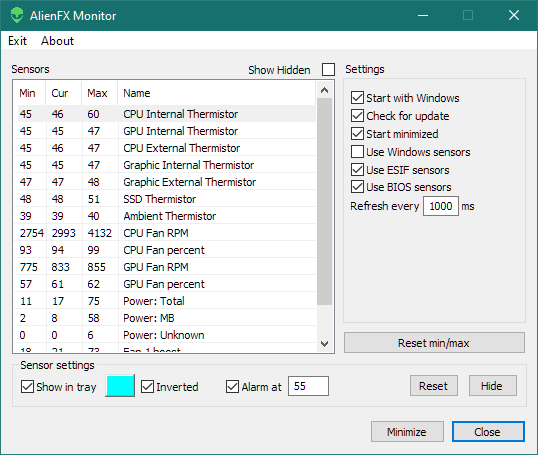
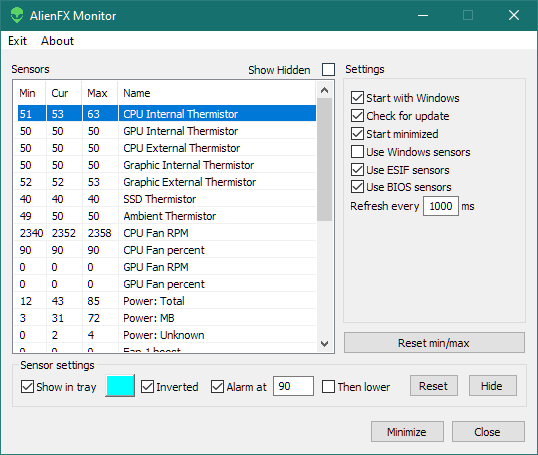
Mon hi/low alarm + overboost bugfixes + release preparation

diff --git a/alienfan-tools/alienfan-cli/alienfan-cli.cpp b/alienfan-tools/alienfan-cli/alienfan-cli.cpp
@@ -69,13 +69,12 @@ void UpdateBoost() {
 }
 
 void CheckFanOverboost(byte num) {
-    int cSteps, boost = 100, cBoost = 100,
-        rpm, oldBoost = acpi->GetFanBoost(num, true);
+    int cSteps = 8, boost = 100, cBoost = 100, rpm, oldBoost = acpi->GetFanBoost(num, true);
     printf("Checking Fan#%d:\n", num);
     bestBoostPoint = { (byte)num, 100, 0 };
     rpm = SetFanSteady(boost);
     printf("    \n");
-    for (int steps = 8; steps; steps = steps >> 1) {
+    for (int steps = cSteps; steps; steps = steps >> 1) {
         // Check for uptrend
         while ((boost+=steps) != cBoost)
         {
@@ -94,16 +93,16 @@ void CheckFanOverboost(byte num) {
         cBoost = boost + steps;
     }
     printf("High check done, best %d @ %d RPM, starting low check:\n", bestBoostPoint.maxBoost, bestBoostPoint.maxRPM);
-    boost = bestBoostPoint.maxBoost;
     for (int steps = cSteps; steps; steps = steps >> 1) {
         // Check for downtrend
         boost -= steps;
-        while (boost > 100 && SetFanSteady(boost, true) >= bestBoostPoint.maxRPM - 55) {
+        while (boost > 100 && SetFanSteady(boost) >= bestBoostPoint.maxRPM - 55) {
             bestBoostPoint.maxBoost = boost;
             boost -= steps;
             printf("(New best: %d @ %d RPM)\n", bestBoostPoint.maxBoost, bestBoostPoint.maxRPM);
         }
-        printf("(Step back)\n");
+        if (boost > 100)
+            printf("(Step back)\n");
         boost = bestBoostPoint.maxBoost;
     }
     printf("Final boost - %d, %d RPM\n\n", bestBoostPoint.maxBoost, bestBoostPoint.maxRPM);
@@ -271,9 +270,10 @@ int main(int argc, char* argv[])
                     if (args[0].num < acpi->HowManyFans())
                         if (args.size() > 1) {
                             // manual fan set
-                            //acpi->Unlock();
-                            bestBoostPoint = { (byte)args[0].num, (byte)args[1].num, 4000 };
-                            //printf("Boost for fan #%d will be set to %d.\n", args[0].num, bestBoostPoint.maxBoost);
+                            acpi->Unlock();
+                            bestBoostPoint = { (byte)args[0].num, (byte)args[1].num, 0 };
+                            acpi->SetFanBoost(bestBoostPoint.fanID, 100, true);
+                            Sleep(2000);
                             SetFanSteady(bestBoostPoint.maxBoost);
                             UpdateBoost();
                             acpi->SetFanBoost(bestBoostPoint.fanID, 0);

diff --git a/alienfan-tools/alienfan-curve/FanCurve.cpp b/alienfan-tools/alienfan-curve/FanCurve.cpp
@@ -187,6 +187,7 @@ int SetFanSteady(byte boost, bool downtrend = false) {
     if (WaitForSingleObject(ocStopEvent, 3000) != WAIT_TIMEOUT)
         return -1;
     lastBoostPoint->maxRPM = acpi->GetFanRPM(bestBoostPoint.fanID);
+    DrawFan();
     do {
         pRpm = bRpm;
         bRpm = lastBoostPoint->maxRPM;
@@ -198,7 +199,6 @@ int SetFanSteady(byte boost, bool downtrend = false) {
         DrawFan();
     } while ((lastBoostPoint->maxRPM > bRpm || bRpm < pRpm || lastBoostPoint->maxRPM != pRpm)
         && (!downtrend || !(lastBoostPoint->maxRPM < bRpm && bRpm < pRpm)));
-    //lastBoostPoint->maxRPM = maxRPM;
     return lastBoostPoint->maxRPM = maxRPM;
 }
 
@@ -220,13 +220,13 @@ void UpdateBoost() {
 }
 
 DWORD WINAPI CheckFanOverboost(LPVOID lpParam) {
-    int num = *(int*)lpParam, cSteps, rpm, crpm;
+    int num = *(int*)lpParam, rpm, crpm;
     mon->Stop();
     fanMode = false;
     acpi->Unlock();
     for (int i = 0; i < acpi->HowManyFans(); i++)
         if (num < 0 || num == i) {
-            int steps = 8, boost = 100, cBoost = 100, oldBoost = acpi->GetFanBoost(num, true);
+            int cSteps = 8, boost = 100, cBoost = 100, oldBoost = acpi->GetFanBoost(num, true);
             fan_conf->lastSelectedFan = i;
             boostCheck.clear();
             bestBoostPoint = { (byte)i, 100, 3000 };
@@ -234,7 +234,7 @@ DWORD WINAPI CheckFanOverboost(LPVOID lpParam) {
             if ((rpm = SetFanSteady(boost)) < 0)
                 break;
             fanMinScale = (rpm / 100) * 100;
-            for (int steps = 8; steps; steps = steps >> 1) {
+            for (int steps = cSteps; steps; steps = steps >> 1) {
                 // Check for uptrend
                 while ((boost += steps) != cBoost)
                 {
@@ -257,7 +257,7 @@ DWORD WINAPI CheckFanOverboost(LPVOID lpParam) {
             for (int steps = cSteps; steps; steps = steps >> 1) {
                 // Check for uptrend
                 boost -= steps;
-                while (boost > 100 && (crpm = SetFanSteady(boost, true)) >= bestBoostPoint.maxRPM - 55) {
+                while (boost > 100 && (crpm = SetFanSteady(boost)) >= bestBoostPoint.maxRPM - 55) {
                     bestBoostPoint.maxBoost = boost;
                     DrawFan();
                     boost -= steps;

diff --git a/alienfx-mon/alienfx-mon.cpp b/alienfx-mon/alienfx-mon.cpp
@@ -158,7 +158,8 @@ void UpdateItemInfo() {
 	CheckDlgButton(mDlg, IDC_CHECK_INTRAY, conf->active_sensors[selSensor].intray);
 	CheckDlgButton(mDlg, IDC_CHECK_INVERTED, conf->active_sensors[selSensor].inverse);
 	CheckDlgButton(mDlg, IDC_CHECK_ALARM, conf->active_sensors[selSensor].alarm);
-	SetDlgItemInt(mDlg, IDC_ALARM_POINT, conf->active_sensors[selSensor].alarmPoint, false);
+	CheckDlgButton(mDlg, IDC_CHECK_DIRECTION, conf->active_sensors[selSensor].direction);
+	SetDlgItemInt(mDlg, IDC_ALARM_POINT, conf->active_sensors[selSensor].ap, false);
 	RedrawButton(IDC_BUTTON_COLOR, conf->active_sensors[selSensor].traycolor);
 }
 
@@ -376,7 +377,10 @@ BOOL CALLBACK DialogMain(HWND hDlg, UINT message, WPARAM wParam, LPARAM lParam) 
 			break;
 		case IDC_CHECK_ALARM:
 			conf->active_sensors[selSensor].alarm = state;
-			//conf->active_sensors[selSensor].oldCur = NO_SEN_VALUE;
+			conf->active_sensors[selSensor].ap = GetDlgItemInt(hDlg, IDC_ALARM_POINT, NULL, false);
+			break;
+		case IDC_CHECK_DIRECTION:
+			conf->active_sensors[selSensor].direction = state;
 			break;
 		case IDC_BUT_HIDE:
 			conf->active_sensors[selSensor].disabled = !conf->showHidden;
@@ -403,7 +407,7 @@ BOOL CALLBACK DialogMain(HWND hDlg, UINT message, WPARAM wParam, LPARAM lParam) 
 			break;
 		case IDC_ALARM_POINT:
 			if (HIWORD(wParam) == EN_CHANGE) {
-				conf->active_sensors[selSensor].alarmPoint = GetDlgItemInt(hDlg, IDC_ALARM_POINT, NULL, false);
+				conf->active_sensors[selSensor].ap = GetDlgItemInt(hDlg, IDC_ALARM_POINT, NULL, false);
 			}
 			break;
 		}

diff --git a/alienfx-mon/SenMonHelper.cpp b/alienfx-mon/SenMonHelper.cpp
@@ -85,11 +85,11 @@ void AddUpdateSensor(ConfigMon* conf, int grp, byte type, DWORD id, long val, st
 	}
 	if (sen->alarm && sen->oldCur && sen->oldCur != NO_SEN_VALUE) {
 		// Check alarm
-		if ((sen->cur < (int)sen->alarmPoint) + (sen->oldCur >= (int)sen->alarmPoint) == 2 ||
-			(sen->cur > (int)sen->alarmPoint) + (sen->oldCur <= (int)sen->alarmPoint) == 2) {
+		if ((sen->direction ? (sen->cur < (int)sen->ap) + (sen->oldCur >= (int)sen->ap) == 2 :
+			(sen->cur > (int)sen->ap) + (sen->oldCur <= (int)sen->ap) == 2)) {
 			// Set alarm
 			ShowNotification(&conf->niData, "Alarm triggered!", "Sensor \"" + sen->name +
-				"\" crossed the value " + to_string(sen->alarmPoint) + " (Current: " + to_string(sen->cur) + ")!", true);
+				"\" " + (sen->direction ? "lower " : "higher ") + to_string(sen->alarmPoint) + " (Current: " + to_string(sen->cur) + ")!", true);
 		}
 	}
 }

diff --git a/alienfx-mon/resource.h b/alienfx-mon/resource.h
@@ -32,8 +32,9 @@
 #define IDC_BUT_HIDE                    1011
 #define IDC_CHECK_ALARM                 1012
 #define IDC_ALARM_POINT                 1013
-#define IDC_BUTTON3                     1014
 #define IDC_BUT_RESET                   1014
+#define IDC_CHECK3                      1015
+#define IDC_CHECK_DIRECTION             1015
 #define IDC_STARTW                      1016
 #define IDC_STARTM                      1017
 #define IDC_ESENSORS                    1039
@@ -54,7 +55,7 @@
 #define _APS_NO_MFC                     1
 #define _APS_NEXT_RESOURCE_VALUE        131
 #define _APS_NEXT_COMMAND_VALUE         32775
-#define _APS_NEXT_CONTROL_VALUE         1015
+#define _APS_NEXT_CONTROL_VALUE         1016
 #define _APS_NEXT_SYMED_VALUE           110
 #endif
 #endif

diff --git a/alienfx-mon/ConfigMon.h b/alienfx-mon/ConfigMon.h
@@ -23,7 +23,13 @@ struct SENSOR {
 		};
 		DWORD flags = 0;
 	};
-	DWORD alarmPoint = 0;
+	union {
+		struct {
+			WORD ap;
+			WORD direction;
+		};
+		DWORD alarmPoint = 0;
+	};
 	DWORD traycolor = 0xffffff;
 	NOTIFYICONDATA* niData;
 };

diff --git a/Doc/alienfan-gui.md b/Doc/alienfan-gui.md
@@ -19,8 +19,9 @@ Fan control is temperature sensor-driven, so first select one of the temperature
 Then, choose fan(s) tied to it's reading - you can select from none to all in any combination.  
 Select check box for fan(s) you need.
 
-After you doing so, currently selected (checked or not) fan settings will be shown at "Fan Settings" window - you will see selected fan boost at the top, and the fan control curve (green lines).  
-Selected fan curve presented in green color, rest of the fans attached to the same sensor marked as yellow.  
+After you doing so, currently selected fan settings will be shown at "Fan Curve" window - you will see current fan boost at the top, and the fan control curve (green line).
+The rest of the sensors controlling the same fan marked as yellow dotted lines.  
+Big green and yellow points present proposed boost set for every curve, red one show current hardware boost settings.  
 Now play with fan control curve - it defines fan boost by temperature level. X axle is temperature, Y axle is boost level.  
 You can left click (and drag until mouse button release) into the curve window to add point or select close point (if any) and move it.  
 You can click right mouse button at the graph point to remove it.  

diff --git a/Doc/alienfx-gui.md b/Doc/alienfx-gui.md
@@ -245,7 +245,9 @@ Fan control is temperature sensor-driven, so first select one of the temperature
 Then, select which fan(s) should react on its readings - you can select from none to all in any combination.  
 So, select check box for fan(s) you need.
 
-After you doing so, currently selected fan settings will be shown at "Fan Curve" window - you will see current fan boost at the top, and the fan control curve (green lines).
+After you doing so, currently selected fan settings will be shown at "Fan Curve" window - you will see current fan boost at the top, and the fan control curve (green line).
+The rest of the sensors controlling the same fan marked as yellow dotted lines.  
+Big green and yellow points present proposed boost set for every curve, red one show current hardware boost settings.  
 Now play with fan control curve - it defines fan boost by temperature level. X axle is temperature, Y axle is boost level.  
 You can left click (and drag until release mouse button) into the curve window to add point or select close point (if any) and move it.  
 You can click right mouse button at the graph point to remove it.  

diff --git a/Doc/alienfx-mon.md b/Doc/alienfx-mon.md
@@ -21,8 +21,10 @@ You can enable 2 more sensor sources (but both of them will require Administrato
 
 You can edit sensor name by double-click on it into sensor list.
 You can hide sensor from active list pressing "Hide" button, assign try icon, it's color and style using "Sensor settings" block.  
-"Alarm at" check box enable tray notification alarm then sensor value cross the defined cross border.  
 "Reset" button reset sensor min/max values to the current one.
+
+"Alarm at" check box enable tray notification alarm then sensor value higher, then defined border.  
+"Then lower" check box will alter alarm to trigger then value become lower, then border.  
 
 "Show hidden" check box switch list between active and hidden sensors. You can revive sensor back to main list pressing "Unhide" button there.
 
